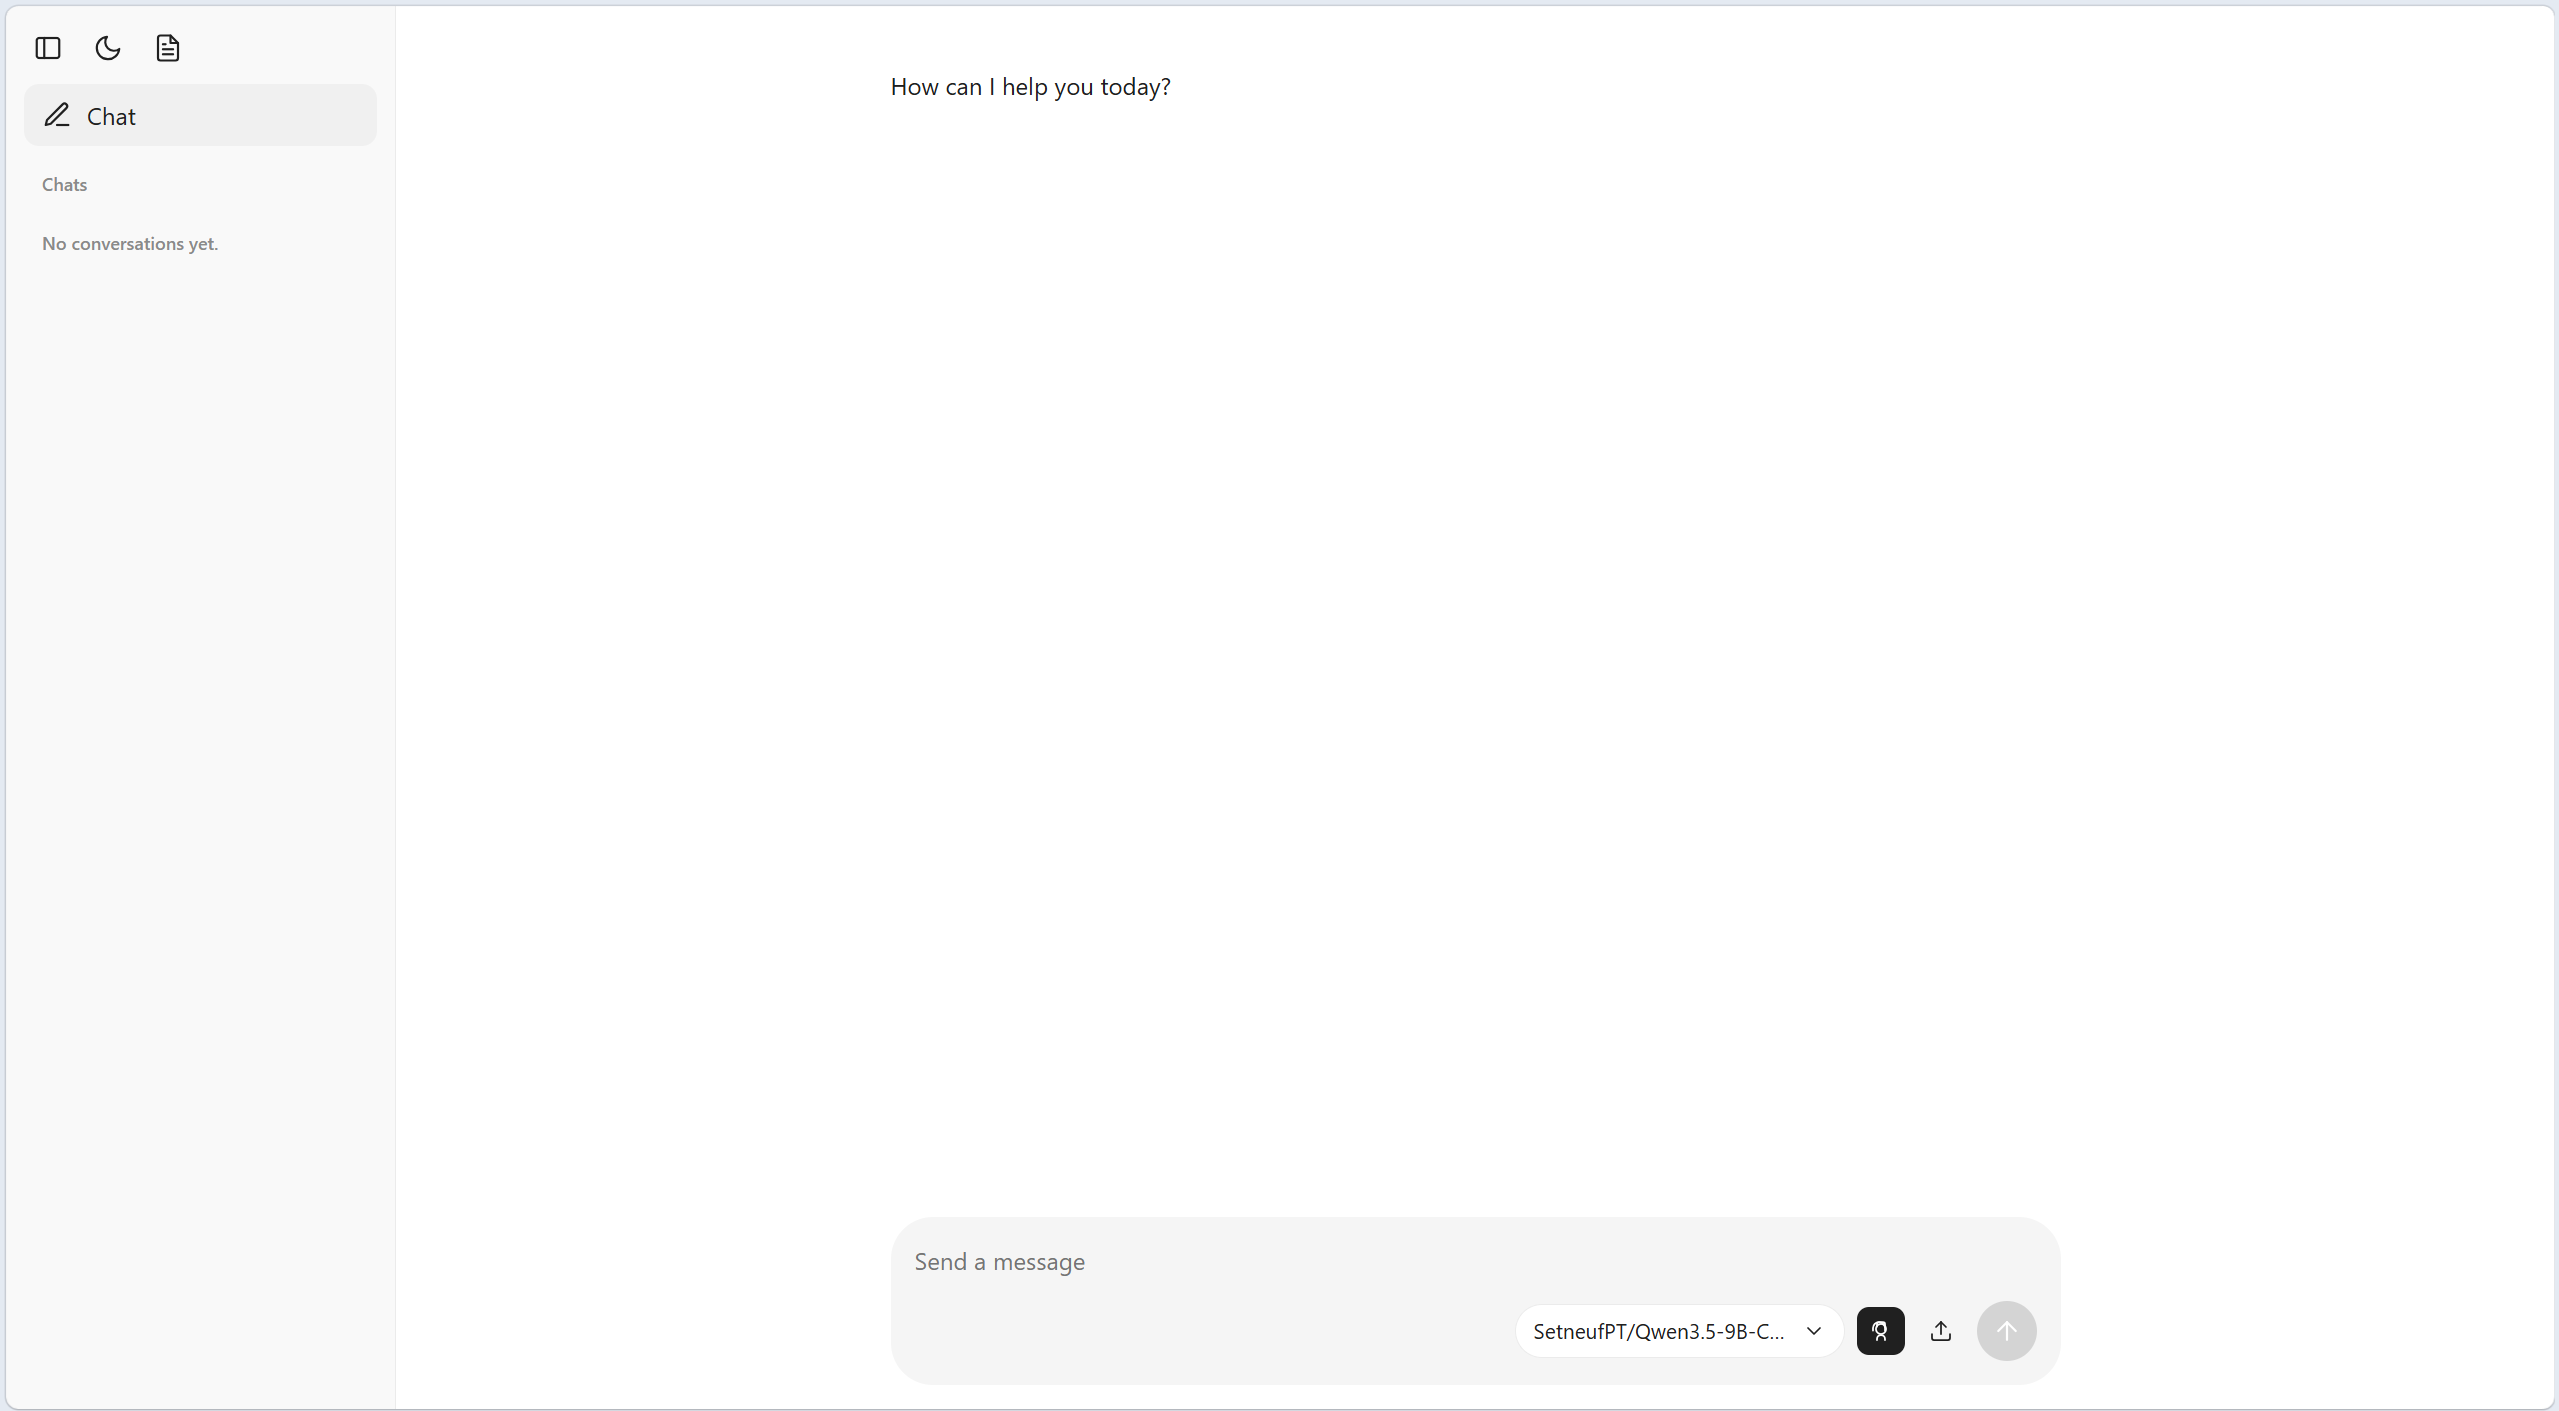
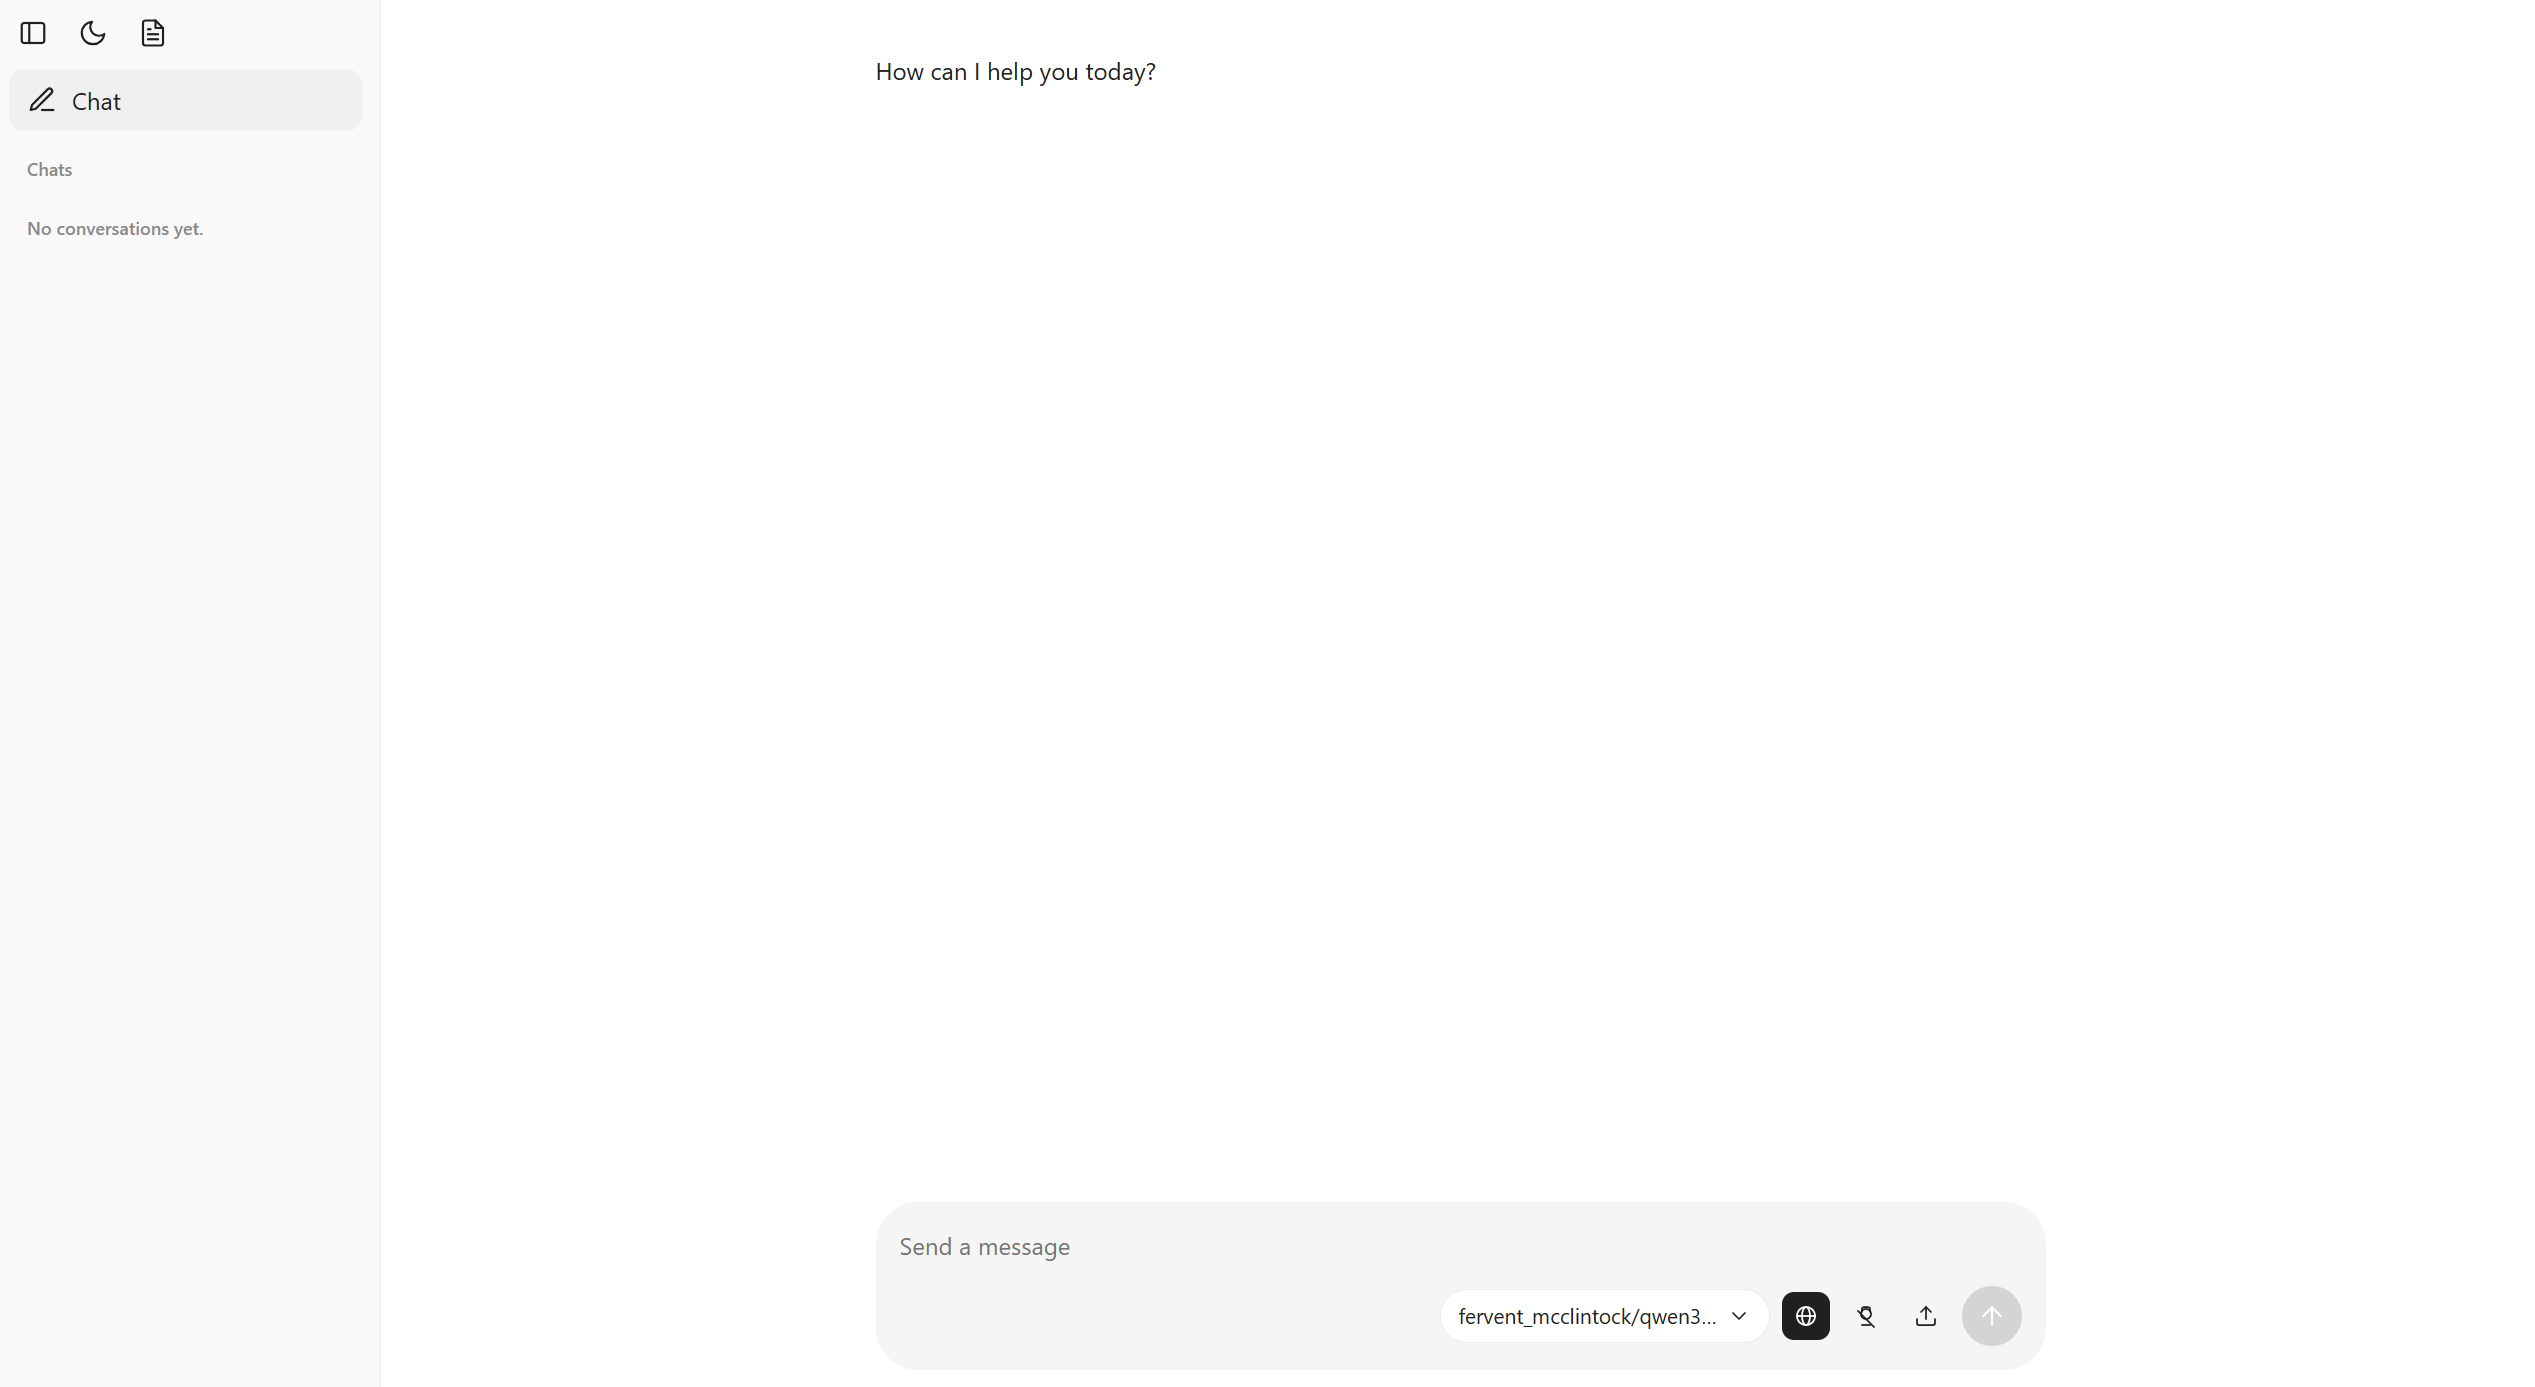
ollama-chat

diff --git a/src/content/projects/ollama-chat.md b/src/content/projects/ollama-chat.md
@@ -1,12 +1,22 @@
 ---
 title: Ollama-chat
 description: Ollama Chat is a conversational AI
-pubDate: 2026-10-04
+pubDate: 2026-10-12
 heroImage: /images/project/chat.png
 tags:
   - Ollama
 draft: false
 ---
+## **What's new in this fork**
+
+- **Completely redesigned theme** — light / dark (`prefers-color-scheme` + `data-theme`), new sidebar / composer / messages layout, mobile-responsive. See `src/ollama_chat/static/app.css` and `src/ollama_chat/static/app.js`.
+- **Thinking mode toggle** — paw button in composer. Sends `{"think": true|false}` via `startConversation` / `replyConversation` → `ChatManager(think=...)` → `ollama_chat(..., think=...)` (`src/ollama_chat/ollama.py:43`, `src/ollama_chat/chat.py:23`). Persisted in `localStorage` (`ollama-chat-thinking`). Visual state `icon-btn thinking-active` (`src/ollama_chat/static/app.css:777`).
+- **Web search (tool calling)** — globe button left of the thinking paw. Sends `{"search": true|false}`, the back-end hands Ollama two tools (`web_search`, `fetch_page`) and runs the `tool_calls` loop (max 5 rounds per answer) → `ChatManager(search=...)` → `ollama_chat(..., tools=...)` (`src/ollama_chat/web_tools.py`, `src/ollama_chat/chat.py`). Persisted in `localStorage` (`ollama-chat-websearch`), off by default. Active class `icon-btn websearch-active`; used tools are shown as a collapsible block in the chat.
+- **File attachments** — upload button in composer, **up to 10 files per message** (selected files accumulate, each chip has a remove button, `3 / 10` counter). Supported: `txt`, `md`, `docx`, `png`, `jpg`, `jpeg`. Text is appended to user message, `docx` parsed with `python-docx`, images sent as base64 `images` (`src/ollama_chat/chat.py:67`, `src/ollama_chat/static/app.js:149`). Attached file names are stored on the exchange (`ConversationFileRef`) and shown as chips above each user message, sending with empty text allowed.
+- **Markdown viewer (.md preview in chat)** — button next to theme toggle in sidebar toolbar. Opens system file picker (`accept=".md,.markdown"`), reads file with `FileReader` and renders it **inside the chat area** via `marked` + `DOMPurify` (`src/ollama_chat/static/app.js:505`, `src/ollama_chat/static/app.css:987`). Header shows filename + `Close preview` button, `Esc` also closes. No upload to server, works offline.
+- **Reliable rename** — `Rename` in chat menu now updates both sidebar and open header instantly and awaits `POST /setConversationTitle` before navigation (`src/ollama_chat/static/app.js:885`, `src/ollama_chat/static/ollamaChatConversation.bare:312`).
+- **One-click Windows launch — `start.bat` / `install.bat`** — `install.bat` clones to clean folder + creates `.venv`, `start.bat` creates `.venv` if missing and forwards all args to `ollama-chat` (e.g. `start.bat -p 8080`).
+
 **Ollama Chat** is a conversational AI chat client that uses [Ollama](https://ollama.com/) to interact with local large language models (LLMs) entirely offline. Ideal for AI enthusiasts, developers, or anyone wanting private, offline LLM chats.
 
 > **Fork:** [OlegUshakov-pl/ollama-chat](https://github.com/OlegUshakov-pl/ollama-chat) — fork of [craigahobbs/ollama-chat](https://github.com/craigahobbs/ollama-chat) with a redesigned theme, thinking-mode toggle, and file attachments.
